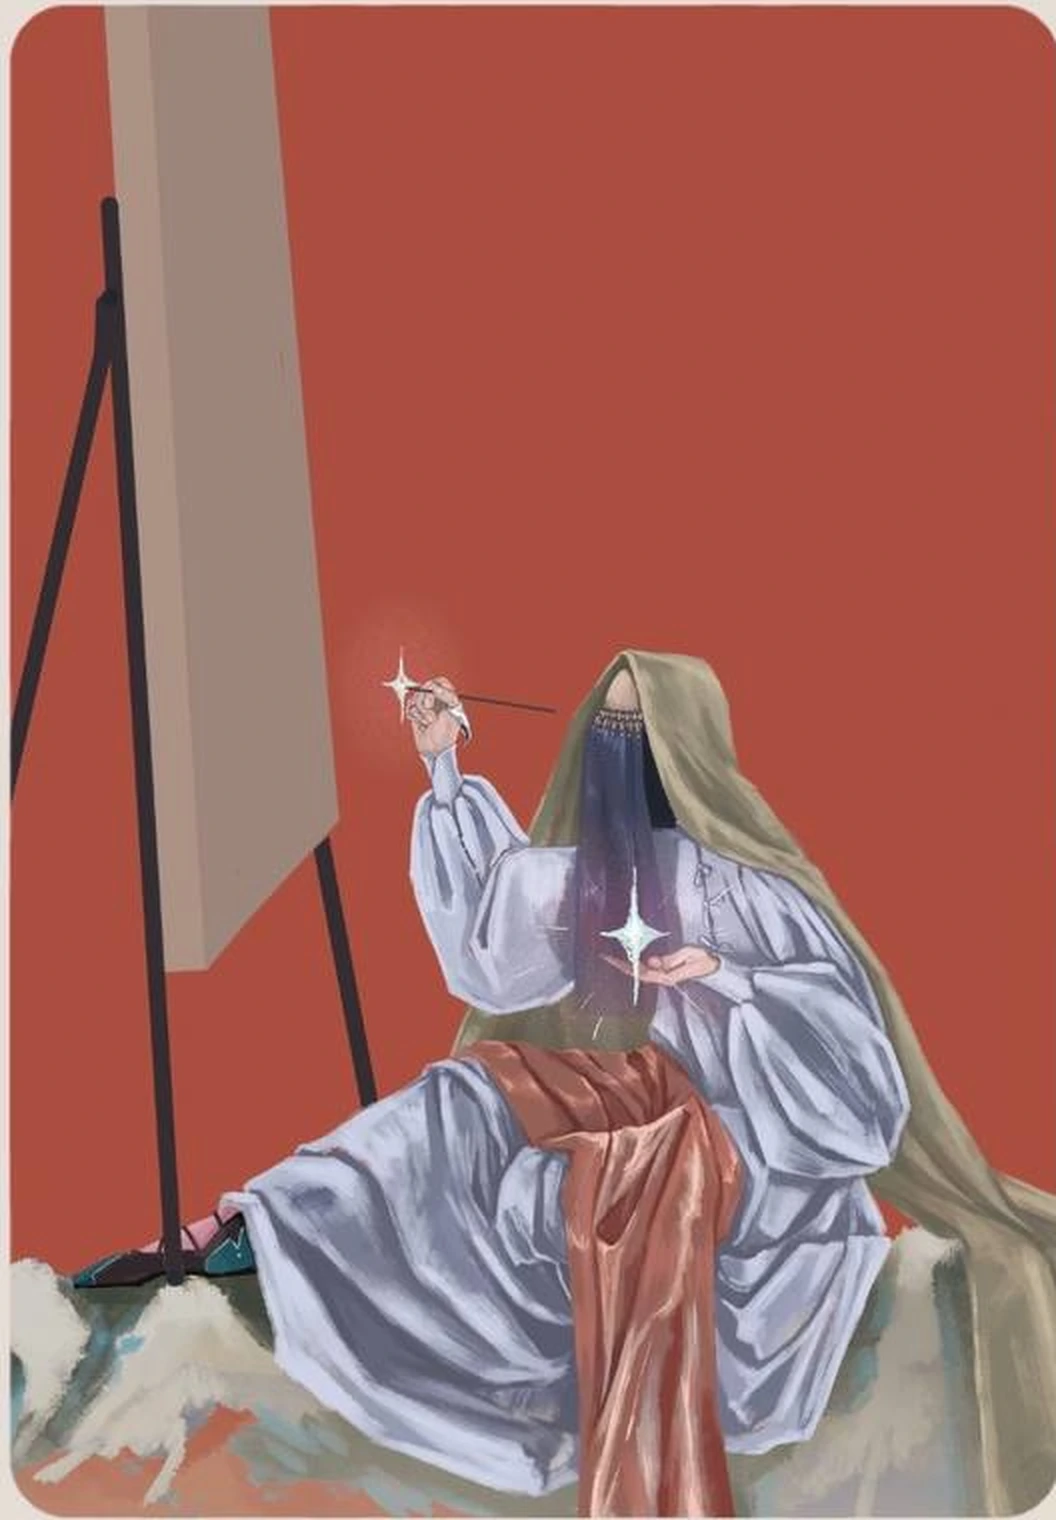
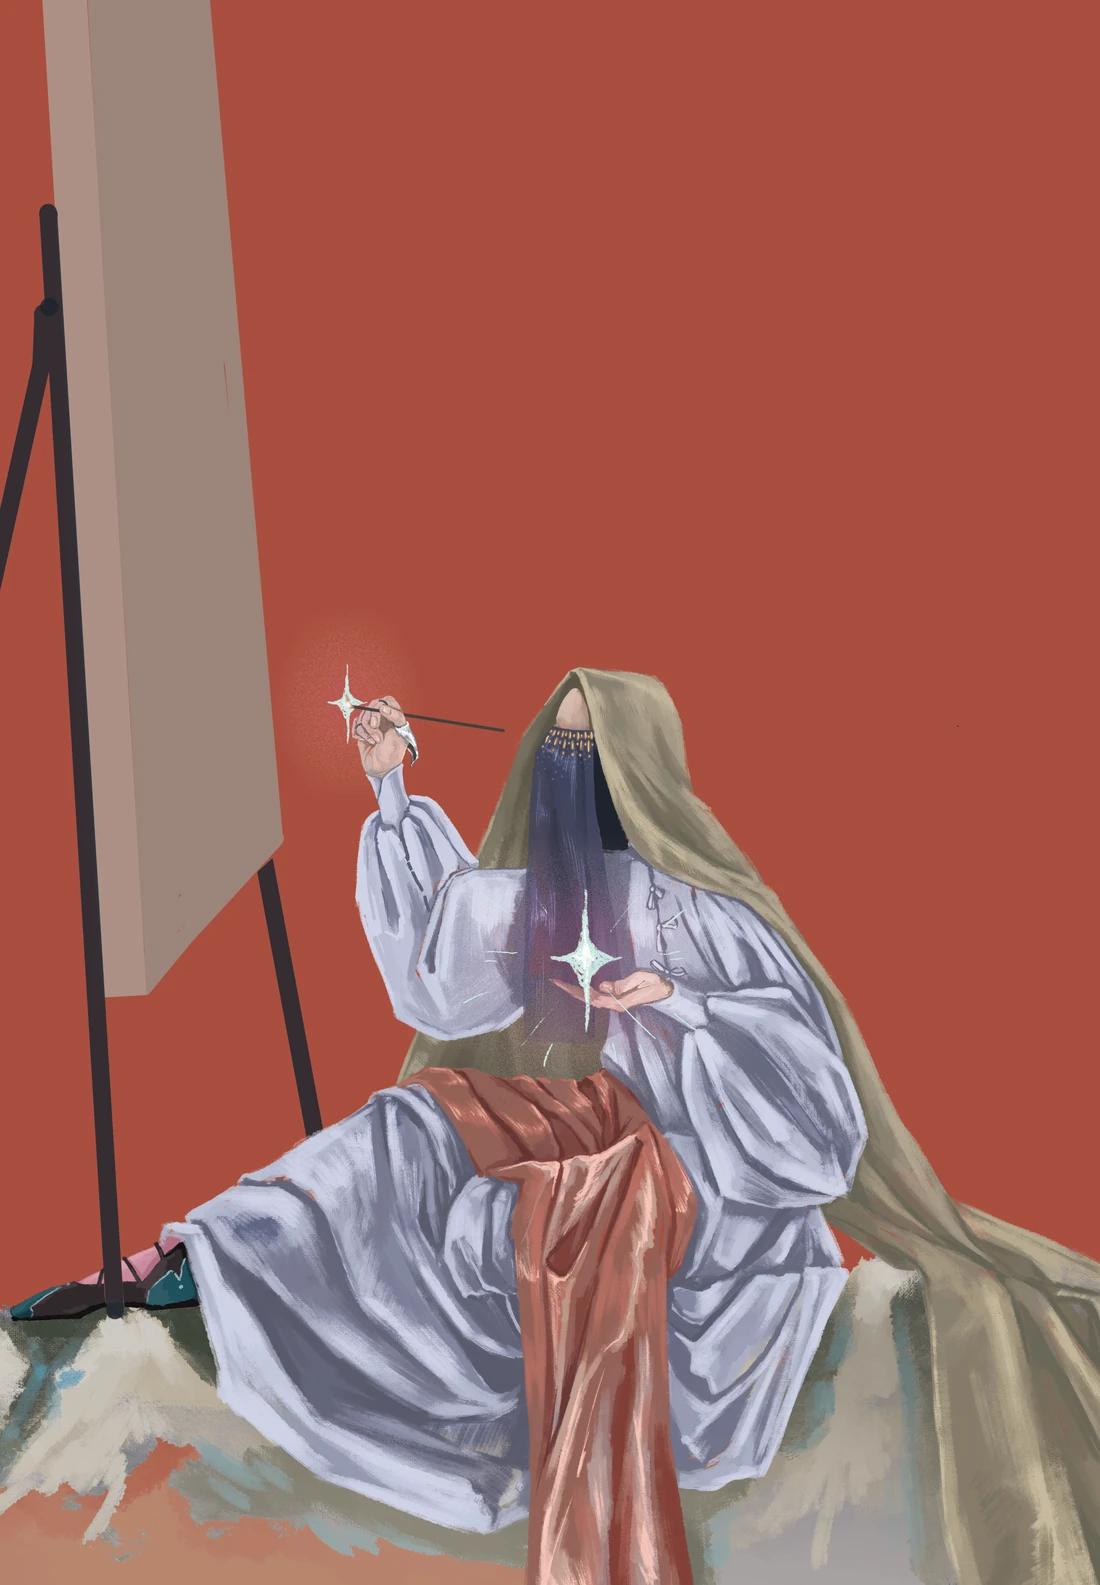
Модуль 0 программы и настоящий портрет Аланы
Модуль собран по структуре референса, в наших цветах и шрифтах:
- слева три картинки разного масштаба со скруглением (широкая сверху,
  две квадратные под ней) — пропорции колонок с референса: 48.7% / 49.2%;
- справа бордовая карточка: «Модуль 0 / ВВЕДЕНИЕ» и четыре урока списком;
- ниже цифра модуля рукописным Aquarelle в бордовом круге и результат
  модуля, красным выделено то же, что в референсе.

Портрет Аланы заменён на присланный оригинал (4000×4000, кроп под ту же
пропорцию, что у блока автора).

🔴 height:100% вместе с aspect-ratio съедало высоту строки — картинки
модуля не показывались; только height:auto.

diff --git a/css/quest.css b/css/quest.css
@@ -158,3 +158,95 @@
   .split__text { font-size: clamp(14px, 3.8vw, 17px); line-height: 1.7; width: min(100%, 76vw); }
   .split__text br { display: none; }   /* на телефоне переносы по месту */
 }
+
+/* ============================================================
+   ПРОГРАММА КУРСА — МОДУЛЬ
+   Слева три картинки разного масштаба, справа бордовая карточка с уроками,
+   ниже цифра модуля рукописным и результат. Пропорции — как в референсе:
+   левая колонка 48.7%, зазор 2.05%, карточка 49.2%.
+   ============================================================ */
+.mod {
+  display: grid;
+  grid-template-columns: 48.7% 49.2%;
+  gap: 2.05%;
+  align-items: stretch;
+}
+.mod__pics {
+  align-content: start;
+  display: grid;
+  grid-template-columns: repeat(2, minmax(0, 1fr));
+  grid-template-rows: auto auto;
+  gap: clamp(10px, 1.4vw, 24px);
+}
+.mod__pic {
+  /* 🔴 height:100% вместе с aspect-ratio ломает высоту строки — только auto */
+  display: block; width: 100%; height: auto;
+  object-fit: cover;
+  border-radius: clamp(12px, 1.5vw, 26px);
+  aspect-ratio: 1 / 1;
+}
+.mod__pic--wide { grid-column: 1 / -1; aspect-ratio: 760 / 768; }
+
+.mod__card {
+  border-radius: clamp(14px, 1.8vw, 30px);
+  background: var(--wine-line);
+  color: #f6efe4;
+  padding: clamp(22px, 2.8vw, 52px) clamp(20px, 2.6vw, 46px);
+  display: flex; flex-direction: column; gap: clamp(14px, 1.8vw, 30px);
+}
+.mod__title {
+  margin: 0;
+  font-family: "Champagne & Limousines", sans-serif;
+  font-weight: 700;
+  font-size: clamp(21px, 2.3vw, 42px);
+  line-height: 1.18;
+  letter-spacing: .01em;
+}
+.mod__title span { text-transform: uppercase; letter-spacing: .04em; }
+.mod__lessons {
+  margin: 0; padding-left: 1.35em;
+  display: grid; gap: clamp(8px, .9vw, 16px);
+  font-family: "Champagne & Limousines", sans-serif;
+  font-weight: 700;
+  font-size: clamp(15px, 1.42vw, 27px);
+  line-height: 1.35;
+  list-style: decimal;
+}
+.mod__lessons li { padding-left: .1em; }
+
+.mod__res {
+  display: grid;
+  grid-template-columns: auto 1fr;
+  gap: clamp(12px, 1.5vw, 26px);
+  align-items: center;
+  margin-top: clamp(18px, 2.2vw, 40px);
+}
+.mod__num {
+  display: grid; place-items: center;
+  width: clamp(44px, 4.2vw, 78px); aspect-ratio: 1;
+  border-radius: 50%;
+  background: var(--wine-line);
+  color: #f6efe4;
+  font-family: "Aquarelle", cursive;
+  font-weight: 400;
+  font-size: clamp(26px, 2.7vw, 50px);
+  line-height: 1;
+  padding-bottom: .08em;
+}
+.mod__res p {
+  margin: 0;
+  color: var(--ink-dark);
+  font-family: "Champagne & Limousines", sans-serif;
+  font-weight: 700;
+  font-size: clamp(15px, 1.42vw, 27px);
+  line-height: 1.45;
+  text-wrap: pretty;
+}
+
+@media (max-width: 699px) {
+  .mod { grid-template-columns: 1fr; gap: 14px; }
+  .mod__card { padding: 18px 18px 22px; }
+  .mod__title { font-size: clamp(20px, 5.6vw, 26px); }
+  .mod__lessons { font-size: clamp(14px, 4vw, 17px); }
+  .mod__res p { font-size: clamp(14px, 4vw, 17px); }
+}

diff --git a/blocks.html b/blocks.html
@@ -402,6 +402,37 @@
   <p class="prog__name">Письма художника</p>
 </section>
 
+<!-- ======================= ПРОГРАММА: МОДУЛЬ 0 ======================= -->
+<!-- Структура как в референсе: слева три картинки разного масштаба со
+     скруглением, справа бордовая карточка с уроками, ниже цифра модуля
+     рукописным и результат модуля. -->
+<section class="section s13 light">
+  <div class="wrap">
+    <div class="mod">
+      <div class="mod__pics">
+        <img class="mod__pic mod__pic--wide" src="img/modules/m0-1.webp" alt="" loading="lazy" decoding="async">
+        <img class="mod__pic" src="img/modules/m0-2.webp" alt="" loading="lazy" decoding="async">
+        <img class="mod__pic" src="img/modules/m0-3.webp" alt="" loading="lazy" decoding="async">
+      </div>
+
+      <div class="mod__card">
+        <p class="mod__title">Модуль 0<br><span>Введение</span></p>
+        <ol class="mod__lessons">
+          <li>Старый Адам — комикс, начало квеста</li>
+          <li>Знакомство со мной</li>
+          <li>Иллюстратор: что за фрукт</li>
+          <li>Procreate: библиотека функций</li>
+        </ol>
+      </div>
+    </div>
+
+    <div class="mod__res">
+      <span class="mod__num">0</span>
+      <p>Ознакомишься с темой <b class="key">квеста</b>, наметишь <b class="key">цели</b> на предстоящее обучение и пробежишься по всем <b class="key">функциям Procreate</b>.</p>
+    </div>
+  </div>
+</section>
+
 <script>
 (function () {
   var hero = document.querySelector('.hero');
